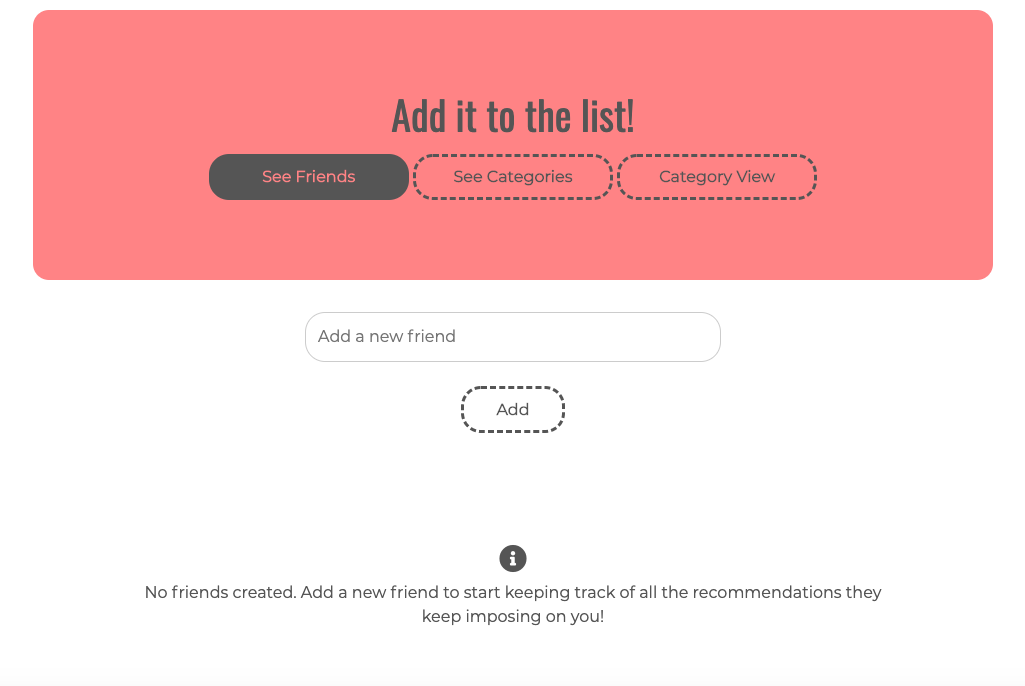
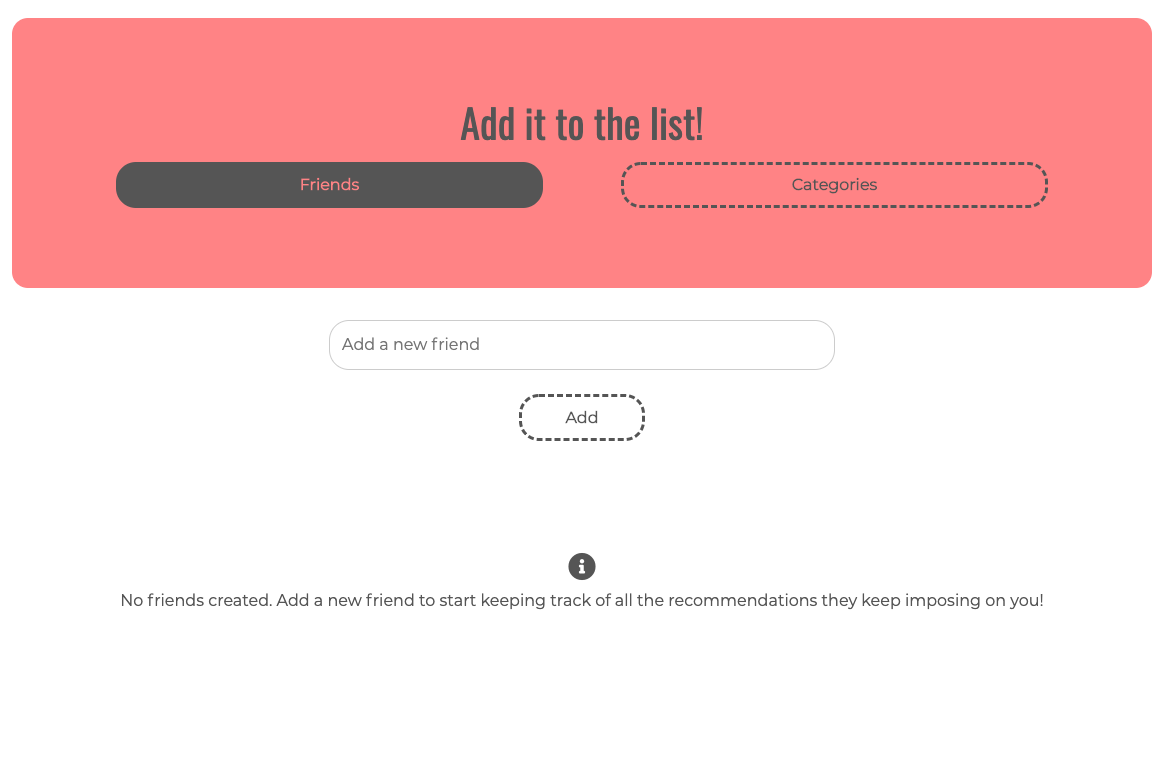
update readme

diff --git a/index.html b/index.html
@@ -25,9 +25,14 @@
         <div class = "row" id="heading-style">
             <div class = "col-12 col-md-12 col-lg-12" style="padding: 2em; text-align: center;">
                 <h1>Add it to the list!</h1>
-                <input type="button" id="friend-selected" value="See Friends" class="head-button" onclick="changeToFriendDisplay()" />
-                <input type="button" id = "category-selected" value="See Categories" class="head-button" onclick="changeToCategoryDisplay()" />
-                <input type="button" id = "category-view-selected" value="Category View" class="head-button" />
+                <div class = "row">
+                    <div class = "col-12 col-md-6 col-lg-6">
+                        <input type="button" id="friend-selected" value="Friends" class="head-button" onclick="changeToFriendDisplay()" />
+                    </div>
+                    <div class = "col-12 col-md-6 col-lg-6">
+                        <input type="button" id = "category-selected" value="Categories" class="head-button" onclick="changeToCategoryDisplay()" />
+                    </div>
+                </div>
             </div>
         </div>
         <!--friend recommendation display-->

diff --git a/style.css b/style.css
@@ -19,7 +19,7 @@ h1,h2,h3,h4,h5{
 
 .head-button {
     margin-top: 0.5em;
-    width: 25%;
+    width: 90%;
     padding: 0.5em;
     border-radius: 20px;
     background-color: #FA8C8C;
@@ -32,7 +32,7 @@ h1,h2,h3,h4,h5{
 
 .selected-head-button {
     margin-top: 0.5em;
-    width: 25%;
+    width: 90%;
     padding: 0.5em;
     border-radius: 20px;
     background-color:  #555555;
